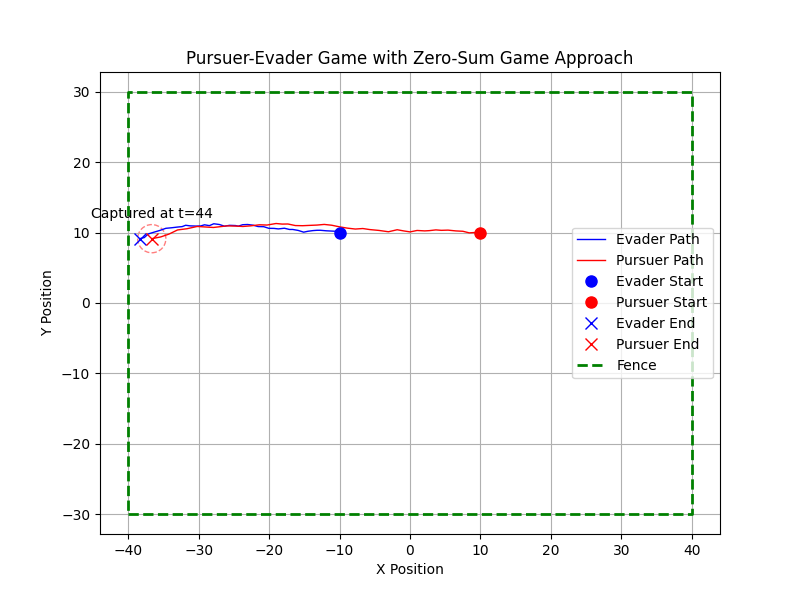
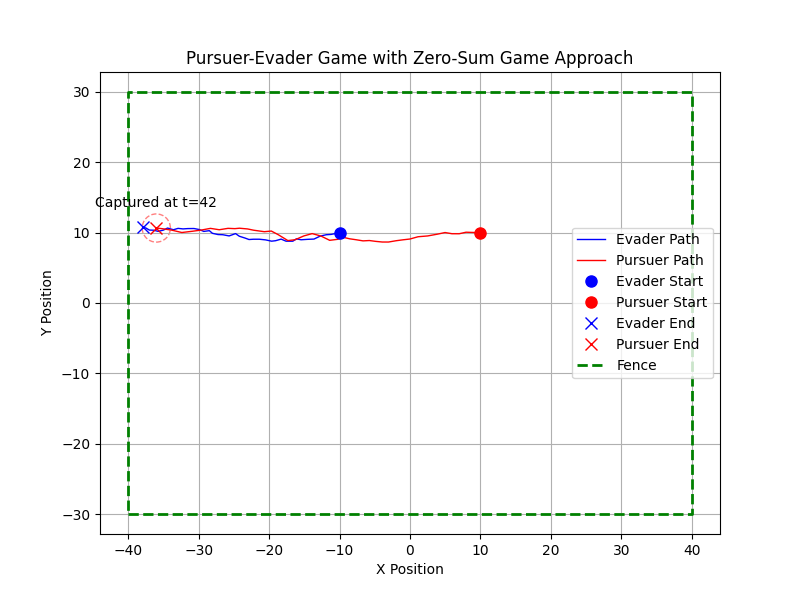
fix mpc output

Changed region(s): [[0.0938, 0.33, 0.5938, 0.42]]

diff --git a/utils.py b/utils.py
@@ -162,9 +162,53 @@ def mpc(x0, target, Ts):
     Lo = cholesky(L, lower=True)
     Linv = solve_triangular(Lo, np.eye(Lo.shape[0]), lower=True)
     
+     # Add position constraints to existing control constraints
+    # For each prediction step, add constraints to keep position within bounds
+    pos_constraint_count = 4 * N  # x_min, x_max, y_min, y_max for each step
+    x_min, x_max, y_min, y_max = np.array([-40, 40, -30, 30])
+    # Create position constraint matrices
+    E_pos = np.zeros((pos_constraint_count, 2*N))
+    W_pos = np.zeros(pos_constraint_count)
+    
+    for i in range(N):
+        # Calculate state at step i+1 given x_est_evader and u
+        A_i = np.linalg.matrix_power(A, i+1)
+        G_i = G[i*4:(i+1)*4, :]
+        
+        # Constraint for x position: x_min <= x <= x_max
+        # x_min <= Ax + Gu <= x_max
+        # -Gu <= Ax - x_min and Gu <= x_max - Ax
+        
+        # Extract position rows from G_i (first and second rows for x,y)
+        G_i_x = G_i[0, :]  # Influence of u on x position
+        G_i_y = G_i[1, :]  # Influence of u on y position
+        
+        # Predicted state without control
+        x_pred = A_i @ x0
+        
+        # Set up constraints for x_min
+        E_pos[i*4, :] = -G_i_x
+        W_pos[i*4] = x_pred[0] - x_min
+        
+        # Set up constraints for x_max
+        E_pos[i*4+1, :] = G_i_x
+        W_pos[i*4+1] = x_max - x_pred[0]
+        
+        # Set up constraints for y_min
+        E_pos[i*4+2, :] = -G_i_y
+        W_pos[i*4+2] = x_pred[1] - y_min
+        
+        # Set up constraints for y_max
+        E_pos[i*4+3, :] = G_i_y
+        W_pos[i*4+3] = y_max - x_pred[1]
+    
+    # Combine existing control constraints with new position constraints
+    E_combined = np.vstack([E, E_pos])
+    W_combined = np.concatenate([W, W_pos])
+    
     # Active set solver emulation (simplified for Python conversion)
     # Note: Full active set solver implementation would be more complex
-    u = solve_qp(L, F @ (x0 - target), E, W, solver="cvxopt")
+    u = solve_qp(L, F @ (x0 - target), E_combined, W_combined, solver="cvxopt")
 
     # Prediction steps
     uMPC = u[:2]  # First control input
@@ -226,24 +270,17 @@ def compute_future_trajectories(x_evader_current, x_pursuer_current, u_evader, u
     
     return x_future_evader, x_future_pursuer
 
-def compute_optimal_targets(x_evader_current, x_pursuer_current, N, A, B, Ts):
+def compute_optimal_targets(x_evader_current, x_pursuer_current, N, Ts):
 
     # For evader: compute optimal target that maximizes distance from pursuer
     # Compute a safe direction away from pursuer
     direction = x_evader_current[0:2] - x_pursuer_current[0:2]
     norm = np.linalg.norm(direction)
-    if norm > 0:
-        direction = direction / norm  # compute cos, sin
-    else:
-        direction = np.array([1, 0])  # Default direction if same position
-    # angle_deg = np.degrees(np.arctan2(direction[1], direction[0]))
-    # if angle_deg < 0:
-    #     angle_deg += 360
+    direction = direction / norm  # compute cos, sin
+
     # Calculate target position
     target_x = x_evader_current[0] + direction[0] * 20  # Look ahead
     target_y = x_evader_current[1] + direction[1] * 20
-    
-    # Keep current velocities for evader
     optimal_target_evader = np.array([target_x, target_y, x_evader_current[2], x_evader_current[3]])
     
     # For pursuer: compute optimal target that minimizes distance to evader

diff --git a/Gameloop.py b/Gameloop.py
@@ -8,7 +8,7 @@ import matplotlib.pyplot as plt
 #################################
 Ts = 0.1  # Time step
 m = 1     # Mass
-time_frames = 60
+time_frames = 80
 capture_radius = 2  # Distance at which pursuer catches evader
 fence_width = 80    # x axis length
 fence_height = 60   # y axis length
@@ -22,19 +22,16 @@ x_pursuer[:, 0] = np.array([10, 10, 0, 0])
 # E_p = np.vstack([np.eye(2*N), -np.eye(2*N)])
 # W_p = np.ones(4*N) * 18
 maxSpeed = 10
-evader_max_speed = 5
+evader_max_speed = 8
 u_evader = np.zeros(2)  # Initialize evader's acceleration
 u_pursuer = np.zeros(2)  # Initialize pursuer's acceleration
 
-
-# System dynamics matrices
 A = np.array([
     [1, 0, Ts, 0],
     [0, 1, 0, Ts],
     [0, 0, 1, 0],
     [0, 0, 0, 1]
 ])
-
 B = np.zeros((4, 2))
 B[2, 0] = Ts/m
 B[3, 1] = Ts/m
@@ -62,7 +59,7 @@ for t in range(time_frames-1):
     x_est_pursuer, P_pursuer = ekf_func(z_pursuer, x_pursuer[:, t], u_pursuer[0], u_pursuer[1], Ts)
     
     # Compute optimal targets for zero-sum game
-    optimal_target_evader, optimal_target_pursuer = compute_optimal_targets(x_est_evader, x_est_pursuer, N, A, B, Ts)
+    optimal_target_evader, optimal_target_pursuer = compute_optimal_targets(x_est_evader, x_est_pursuer, N, Ts)
     
     # Compute optimal control for evader and pursuer
 
